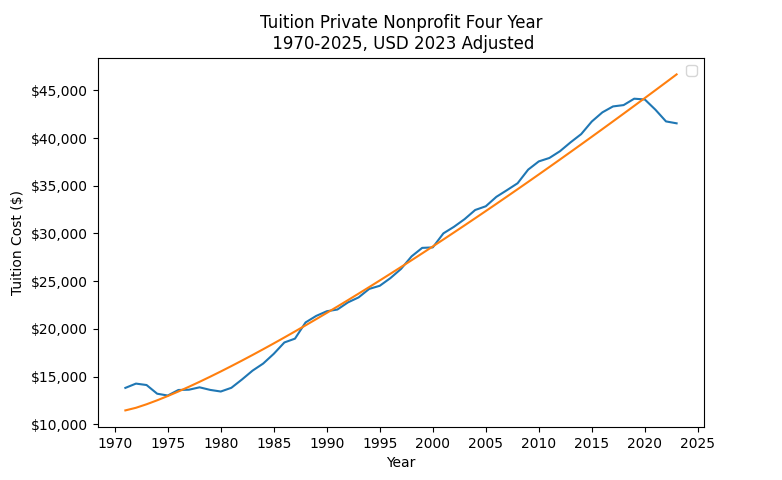
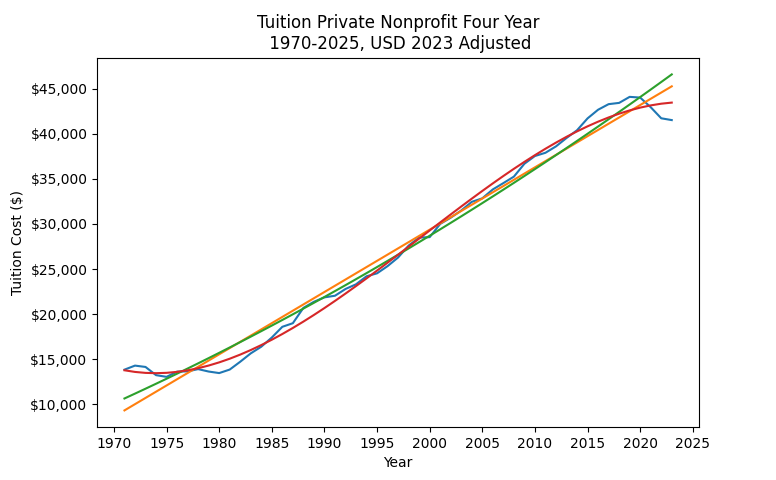
Add Homework

diff --git a/Math Modeling/Module 1 - Student Loans/Part 1 - Polynomial Fits.md b/Math Modeling/Module 1 - Student Loans/Part 1 - Polynomial Fits.md
@@ -29,38 +29,32 @@ I noticed that Graph A, Private Nonprofit Colleges, look to have increased their
 
 **Figure A:** ![[q2_private.png]]
 
-|          | Linear Fit | Quadratic Fit | Cubic Fit |
-| -------- | ---------- | ------------- | --------- |
-| $\chi^2$ |            |               |           |
-| $r^2$    |            |               |           |
+|          | Linear Fit | Quadratic Fit | Cubic Fit  | Power Fit  |
+| -------- | ---------- | ------------- | ---------- | ---------- |
+| $\chi^2$ | 2888250.15 | 2529565.47    | 679566.783 | 2172501.93 |
+| $r^2$    | 97.58%     | 97.92%        | 99.45%     | 98.21%     |
 
-
-
-
-Using least squares, I found a regression: $A(x-1971)^p + C$.
-$$T(x)=(274.20)(x-1971)^{1.23} + 11461.88$$
-There are a lot of fit statistics that got printed with LMFIT, but I listed some:
-$\chi^2 = 2172501.93$, $r^2=98.21\%$.
 
 **Figure B:** ![[q2_public_4.png]]
-Using least squares, I found a regression: $A(x-1971)^p + C$.
-$$T(x)=(19.03)(x-1971)^{1.61} + 2713.42$$
-There are a lot of fit statistics that got printed with LMFIT, but I listed some:
-$\chi^2 = 540912.098$, $r^2=95.69\%$.
+
+|          | Linear Fit | Quadratic Fit | Cubic Fit | Power Fit |
+| -------- | ---------- | ------------- | --------- | --------- |
+| $\chi^2$ | 968680.36  | 589420.30     | 243296.87 | 540912.10 |
+| $r^2$    | 92.14%     | 95.31%        | 98.10%    | 95.69%    |
+
 
 **Figure C:** ![[q2_public_2.png]]
-Using least squares, I found a regression: $A(x-1971)^p + C$.
-$$T(x)=(24.33)(x-1971)^{1.25} + 1335.86$$
-There are a lot of fit statistics that got printed with LMFIT, but I listed some:
-$\chi^2 = 59448.92$, $r^2=94.89\%$.
 
+|          | Linear Fit | Quadratic Fit | Cubic Fit | Power Fit |
+| -------- | ---------- | ------------- | --------- | --------- |
+| $\chi^2$ | 66803.79   | 63896.33      | 33975.96  | 59448.92  |
+| $r^2$    | 94.14%     | 94.51%        | 97.14%    | 94.89%    |
 
 
 3. What is the common trend for the three graphs? 
 
-A common trend among the 3 graphs is that tuition increases *super-linearly*, I.e. a power $p>1$.
+A common trend among the 3 graphs is that tuition increases *super-linearly*.
 They all also seem to have a spike around 1973, and a dip at about COVID times.
-
 
 
 4. What is the domain and range of each of your chosen polynomial models? 
@@ -69,24 +63,27 @@ I chose the domain to be $x\in\left[1971,2023\right]$.
 The range tends to overshoot the data, probably because of COVID-19, but it tends to be:
 $T(x)\in\left[\$1335.86, \$47000\right]$.
 If we wanted the individual ranges, we would find that: $T_n(x)\in\left[T_n(1971), T_n(2023)\right]$.
-
+My polynomials are in powers of $(x-1971)$, for reference.
 
 
 5. Use your polynomial models to predict the tuition and fees for a student entering each type of institution in the academic year 2028-29. Comment on whether or not you think the predictions are reasonable.
 
 #### Predicted Costs in 2028
-Private 4-Year : $\$50869.82$
-Public 4-Year : $\$15488.30$
-Public 2-Year : $\$5124.94$
-
+| Model     | Private 4-Year | Public 4-Year | Public 2-Year |
+| --------- | -------------- | ------------- | ------------- |
+| Linear    | 48,751.67      | 13,660.75     | 4,903.09      |
+| Quadratic | 50,930.05      | 15,792.02     | 5,122.99      |
+| Cubic     | 43,021.21      | 12,359.73     | 4,109.55      |
+| Mean      | 47,567.64      | 13,917.50     | 4,711.88      |
+| Median    | 48,751.67      | 13,660.75     | 4,903.09      |
 I think these predictions would be more valid if COVID-19 didn't occur, since there was a sharp decrease in tuition during that time.
 I believe these are overestimates of future tuition costs, but they aren't overly outlandish.
+
+Interesting thing is that, of the 3 models, Linear seems to be a nice in-between of Quadratic and Cubic, being responsible for all 3 median values.
 
 
 
 6. List the properties of polynomial functions, and explain the advantages for using them in modeling. 
-
-I misunderstood the statement "Explore different degrees of polynomials, and choose the degree that you think “best” represents the data." to mean that you wanted me to find what degree $p$ best fits the data. I apologize, but since I have already done all the modeling and math with this assumption, I *really* don't want to redo it for higher-degree polynomials.
 
 Polynomials are convenient for finding the different weights for individual degrees of growth, whether it be constant, linear, or quadratic (and above).
 
@@ -98,9 +95,9 @@ The calculation for future values, as well as derivatives, are also much easier 
 
 A limitation with polynomials is that truncation of polynomials can lead to larger variances for times much larger than the domain it was defined on, since finances usually grow in some form of exponentials.
 
-IF the true model grows as something that is non-convergent over a larger domain than the source domain, then something like the Taylor series of ln(1+x) occurs, where the function diverges toward infinity differently than a polynomial would.
+It will always lose to exponential / superexponential growths in the long-term modeling of values.
 
-I've found as well, in my experience, that polynomials have an odd behavior at critical points, or places where a continuous function diverges because of the polynomial arbitrarily at $t_0$, because it wasn't an initial condition that the function has to pass through. This occurred more-so in physics, but I believe it could be a constraint here as well.
+If the true model was logarithmic, it would also fail to converge beyond x=2 (after some adjusting to our bounds), since $\ln(1+x)$ doesn't behave nicely being represented as a polynomial.
 
 
 

diff --git a/Advanced Electromagnetism/Homework/Homework 2.md b/Advanced Electromagnetism/Homework/Homework 2.md
@@ -1,0 +1,52 @@
+
+## Question 1
+Consider a solid, neutral, conducting metal sphere (radius $a$), centered at the origin, as shown.
+It has a small spherical cavity inside it (an off-center hole) with radius $b$, centered on the $+x$-axis, centered at the point $(b, 0, 0)$. A positive point charge $+Q$ sits at the exact center of the cavity.
+
+#### Part A
+Describe how charge is distributed on the metallic shell. Be specific: where does the charge reside and how is it distributed? Explicitly calculate any charge densities that are nonzero and discuss what kind of symmetry they have (if any).
+
+The inner spherical cavity has a uniform surface charge density *only* because the $+Q$ charge is centered on the inner cavity. $$\sigma_\text{inside} = -\dfrac{Q}{4\pi b^2}$$
+The outer surface will also have a uniform surface charge density. This is because the inner surface of the conductor screens the position of the $+Q$, but not the charge itself (because of charge conservation). $$\sigma_\text{outside} = \dfrac{Q}{4\pi a^2}$$
+#### Part B
+Determine the electric field $\vec E(x)$ everywhere along the x-axis.
+$$\vec{E}(x)=\begin{cases} 
+-\dfrac{kQ}{x^2}\hat{x} & x\leq -a \\
+0 & -a<x<0 \\
+-\dfrac{kQ}{(x-b)^2}\hat{x} & 0\leq x<b \\
+\dfrac{kQ}{(x-b)^2}\hat{x} & b<x\leq 2b \\
+0 & 2b<x<a \\
+\dfrac{kQ}{x^2}\hat{x} & x\geq a
+\end{cases}
+$$
+For $x\le-a$ and $x\ge a$, the sphere acts like a point charge.
+For $-a<x\le0$ and $2b\le x<a$, there is no E-field because the sphere is a conductor.
+For $0<x<2b$, the E-field looks like a point charge centered at $x=b$.
+
+Graphed on Desmos: https://www.desmos.com/calculator/zxm5strdxm 
+Note: I had to scale the internal $\vec{E}$ by 1/1000 so that the shape could be easier seen.
+![[HW2_Q1.png]]
+
+#### Part C
+Determine the electric potential $V(x)$ everywhere along the x-axis.
+$$\vec{E}(x)=\begin{cases} 
+\dfrac{kQ}{|x|} & x\leq -a \\
+\dfrac{kQ}{a} & -a<x<0 \\
+\dfrac{kQ}{|x-b|}-\dfrac{kQ}{b}+\dfrac{kQ}{a} & 0\leq x\leq2b \\
+\dfrac{kQ}{a} & 2b<x<a \\
+\dfrac{kQ}{|x|} & x\geq a
+\end{cases}
+$$
+For $x\le-a$ and $x\ge a$, the sphere acts like a point charge voltage.
+For $-a<x\le0$ and $2b\le x<a$, there is a constant voltage because the sphere is a conductor.
+For $0<x<2b$, the voltage looks like a point charge centered at $x=b$.
+
+Desmos: https://www.desmos.com/calculator/utfamoncw9
+![[HW2_Q1C.png]]
+
+
+## Question 2
+Suppose an electric field in a region of space is given by
+$$\vec{E}=\dfrac{B_0}{2\tau}\left(-y\hat{x}+x\hat{y}\right)$$
+#### Part A
+The units of $B_0$ are $\dfrac{\mathrm{N}\cdot\mathrm{s}}{\mathrm{C}\cdot\mathrm{m}}=\dfrac{\mathrm{kg}}{\mathrm{C}\cdot\mathrm{s}}$.

diff --git a/Advanced Electromagnetism/Lecture Notes/Lecture 4.md b/Advanced Electromagnetism/Lecture Notes/Lecture 4.md
@@ -16,7 +16,7 @@ Ohm's Law isn't fundamental like Newton's Laws are, but is it effectively true f
 Recall that $\vec{J} = nq\vec{v}_\text{drift}$, Ohm's law says that:
 $$\begin{align}
 nq\vec{v}_\text{drift} &= \sigma\vec{f}\\
-\Aboxed{\vec{v}_\text{drift}=\dfrac{\sigma}{nq}\vec{f}}
+\Aboxed{\vec{v}_\text{drift}&=\dfrac{\sigma}{nq}\vec{f}}
 \end{align}$$
 The chargers are bouncing all over, encountering a resistive force, losing energy to scattering and thermalization. That $\vec{f}$ is necessary to keep charges drifting in 1 particular direction.
 $\vec{v}_\text{drift}$ for any given charge (like you have a swarm of bees being pushed by a gentle breeze).
